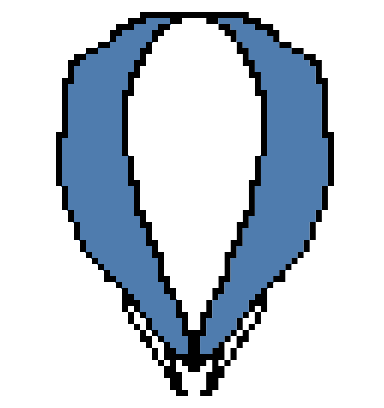
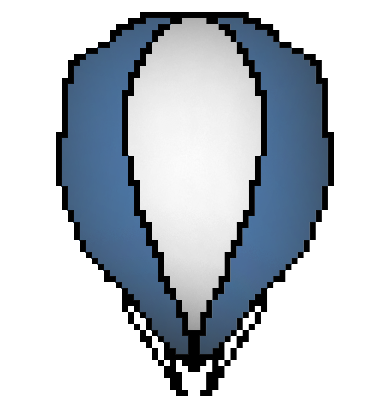
updated pause subscene

Changed region(s): [[0.1562, 0.0294, 0.875, 0.8824]]

diff --git a/src/application/PauseSubscene.java b/src/application/PauseSubscene.java
@@ -1,0 +1,56 @@
+package application;
+
+import javafx.animation.TranslateTransition;
+import javafx.scene.SubScene;
+import javafx.scene.layout.AnchorPane;
+import javafx.util.Duration;
+
+public class PauseSubscene extends SubScene {
+
+	// use only calibrate size
+	ScreenSizeCalibrator sc = new ScreenSizeCalibrator();
+	
+	// load Background
+	// need to find new panel image (this one seem to be too small)
+	private final String BACKGROUND_PATH = ClassLoader.getSystemResource("images/pause_scene.png").toString();
+	
+	// constructor
+	public PauseSubscene() {
+		// TODO Auto-generated constructor stub
+		super(new AnchorPane(), 0, 0);
+
+		// Because i can't set this in constructor
+		setWidth(sc.setTongSize(730));
+		setHeight(sc.setTongSize(449));
+		
+		AnchorPane root = (AnchorPane) this.getRoot();
+		// set background
+		root.setStyle("-fx-background-color: transparent; " 
+						+ "-fx-background-image: url(" + BACKGROUND_PATH + "); "
+						+ "-fx-background-size: cover; ");
+		
+		// set initial position
+		setLayoutX((ScreenSizeCalibrator.WIDTH - getWidth()) /2);
+		setLayoutY(-getHeight());
+	}
+	
+	// set transition in out
+	public void transitionIn() {
+		TranslateTransition t = new TranslateTransition();
+		t.setNode(this);
+		t.setToX(0);
+		t.setToY(getHeight() + (ScreenSizeCalibrator.HEIGHT-getHeight())/3);
+		t.setDuration(new Duration(300));
+		t.play();
+	}
+	public void transitionOut() {
+		TranslateTransition t = new TranslateTransition();
+		t.setNode(this);
+		t.setToX(0);
+		t.setToY(-getHeight() - (ScreenSizeCalibrator.HEIGHT-getHeight())/3);
+		t.setDuration(new Duration(300));
+		t.play();
+	}
+	
+	
+}

diff --git a/src/application/GameManager.java b/src/application/GameManager.java
@@ -20,6 +20,7 @@ public class GameManager {
 	private Thread t;
 	private boolean isPause = false;
 	private ScoreCount scoreCount;
+	private PauseSubscene pauseSubscene;
 	
 	// size controller
 	private ScreenSizeCalibrator sc = new ScreenSizeCalibrator();
@@ -37,6 +38,7 @@ public class GameManager {
 		createTimer();
 		createPauseButton();
 		createScoreCount();
+		createSubscene();
 		setKeyPress();
 		start();
 	}
@@ -70,6 +72,31 @@ public class GameManager {
 		AnchorPane.setRightAnchor(scoreCount, sc.setTongSize(30));
 		AnchorPane.setTopAnchor(scoreCount, sc.setTongSize(70));
 		root.getChildren().add(scoreCount);
+	}
+	
+	public void createSubscene() {
+		pauseSubscene = new PauseSubscene();
+	}
+	
+	public void showSubscene() {
+		root.getChildren().add(pauseSubscene);
+		pauseSubscene.transitionIn();
+	}
+	
+	public void hideSubscene() {
+		Thread t = new Thread(() -> {
+			try {
+				pauseSubscene.transitionOut();
+				Thread.sleep(300);
+				Platform.runLater(() -> {
+					root.getChildren().remove(pauseSubscene);					
+				});
+			} catch (InterruptedException e) {
+				// TODO Auto-generated catch block
+				e.printStackTrace();
+			}			
+		});
+		t.start();
 	}
 	
 	// Thread
@@ -122,6 +149,7 @@ public class GameManager {
 		t.suspend();
 		bArray.pause();
 		gameTimer.pause();
+		showSubscene();
 	}
 	
 	public void unpause() {
@@ -129,6 +157,7 @@ public class GameManager {
 		t.resume();
 		bArray.unpause();
 		gameTimer.unpause();
+		hideSubscene();
 	}
 	
 	public void start() {

diff --git a/src/logic/BalloonArray.java b/src/logic/BalloonArray.java
@@ -38,7 +38,7 @@ public class BalloonArray {
 	}
 	
 	public boolean contains(String s) {
-		return map.get(s) != null;
+		return map.get(s) != null && map.get(s).size() != 0;
 	}
 	
 	public void pause() {
